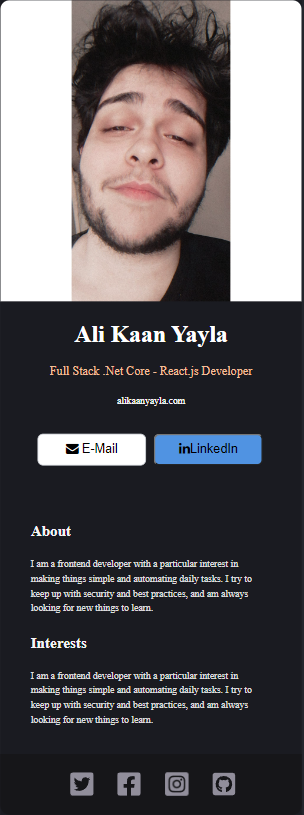
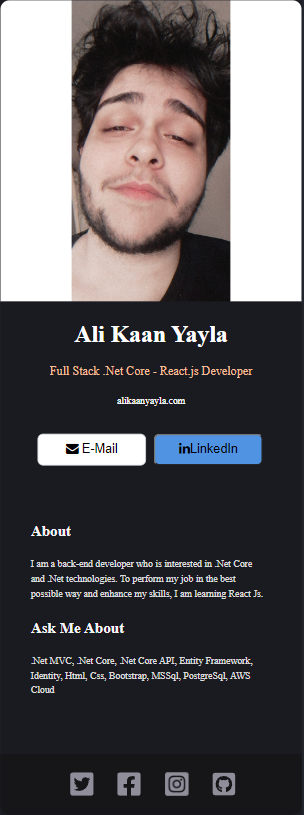
Updated screenshot

Changed region(s): [[0.0888, 0.6748, 0.8586, 0.8896]]

diff --git a/src/About.js b/src/About.js
@@ -3,9 +3,9 @@ export default About; function About() {
     return (
         <div className='about--wrapper'>
             <h3 className='about--title'>About</h3>
-            <p className='about--text'>I am a frontend developer with a particular interest in making things simple and automating daily tasks. I try to keep up with security and best practices, and am always looking for new things to learn.</p>
-            <h3 className='about--title'>Interests</h3>
-            <p className='about--text'>I am a frontend developer with a particular interest in making things simple and automating daily tasks. I try to keep up with security and best practices, and am always looking for new things to learn.</p>
+            <p className='about--text'>I am a back-end developer who is interested in .Net Core and .Net technologies. To perform my job in the best possible way and enhance my skills, I am learning React Js.</p>
+            <h3 className='about--title'>Ask Me About</h3>
+            <p className='about--text'>.Net MVC, .Net Core, .Net Core API, Entity Framework, Identity, Html, Css, Bootstrap, MSSql, PostgreSql, AWS Cloud</p>
         </div>
       );
 }

diff --git a/README.md b/README.md
@@ -1,70 +1,43 @@
-# Getting Started with Create React App
+<a name="readme-top"></a>
+# Simple Static Portfolio Page with React Js :+1:
 
-This project was bootstrapped with [Create React App](https://github.com/facebook/create-react-app).
+A React js project with simple static web page.
 
-## Available Scripts
 
-In the project directory, you can run:
+<!-- TABLE OF CONTENTS -->
+<details>
+  <summary>Table of Contents</summary>
+  <ol>
+    <li>
+      <a href="#used">Used</a>
+    </li>
+    <li>
+      <a href="#screen-shot">Screen Shot</a>
+    </li>
+    <li>
+      <a href="#Contact">Contact</a>
+    </li>
+  </ol>
+</details>
 
-### `npm start`
+## Used
 
-Runs the app in the development mode.\
-Open [http://localhost:3000](http://localhost:3000) to view it in your browser.
+- React js 
+- HTML, CSS
 
-The page will reload when you make changes.\
-You may also see any lint errors in the console.
+## Screen Shot
 
-### `npm test`
+<img width="250" alt="image" src="https://raw.githubusercontent.com/dostundegil/portfolio/master/screenshot.png">
 
-Launches the test runner in the interactive watch mode.\
-See the section about [running tests](https://facebook.github.io/create-react-app/docs/running-tests) for more information.
 
-### `npm run build`
 
-Builds the app for production to the `build` folder.\
-It correctly bundles React in production mode and optimizes the build for the best performance.
+## Contact
 
-The build is minified and the filenames include the hashes.\
-Your app is ready to be deployed!
+Ali Kaan Yayla - [@Linkedin](https://www.linkedin.com/in/ali-kaan-yayla/) 
 
-See the section about [deployment](https://facebook.github.io/create-react-app/docs/deployment) for more information.
+<p align="right">(<a href="#readme-top">back to top</a>)</p>
 
-### `npm run eject`
 
-**Note: this is a one-way operation. Once you `eject`, you can't go back!**
 
-If you aren't satisfied with the build tool and configuration choices, you can `eject` at any time. This command will remove the single build dependency from your project.
 
-Instead, it will copy all the configuration files and the transitive dependencies (webpack, Babel, ESLint, etc) right into your project so you have full control over them. All of the commands except `eject` will still work, but they will point to the copied scripts so you can tweak them. At this point you're on your own.
 
-You don't have to ever use `eject`. The curated feature set is suitable for small and middle deployments, and you shouldn't feel obligated to use this feature. However we understand that this tool wouldn't be useful if you couldn't customize it when you are ready for it.
-
-## Learn More
-
-You can learn more in the [Create React App documentation](https://facebook.github.io/create-react-app/docs/getting-started).
-
-To learn React, check out the [React documentation](https://reactjs.org/).
-
-### Code Splitting
-
-This section has moved here: [https://facebook.github.io/create-react-app/docs/code-splitting](https://facebook.github.io/create-react-app/docs/code-splitting)
-
-### Analyzing the Bundle Size
-
-This section has moved here: [https://facebook.github.io/create-react-app/docs/analyzing-the-bundle-size](https://facebook.github.io/create-react-app/docs/analyzing-the-bundle-size)
-
-### Making a Progressive Web App
-
-This section has moved here: [https://facebook.github.io/create-react-app/docs/making-a-progressive-web-app](https://facebook.github.io/create-react-app/docs/making-a-progressive-web-app)
-
-### Advanced Configuration
-
-This section has moved here: [https://facebook.github.io/create-react-app/docs/advanced-configuration](https://facebook.github.io/create-react-app/docs/advanced-configuration)
-
-### Deployment
-
-This section has moved here: [https://facebook.github.io/create-react-app/docs/deployment](https://facebook.github.io/create-react-app/docs/deployment)
-
-### `npm run build` fails to minify
-
-This section has moved here: [https://facebook.github.io/create-react-app/docs/troubleshooting#npm-run-build-fails-to-minify](https://facebook.github.io/create-react-app/docs/troubleshooting#npm-run-build-fails-to-minify)
